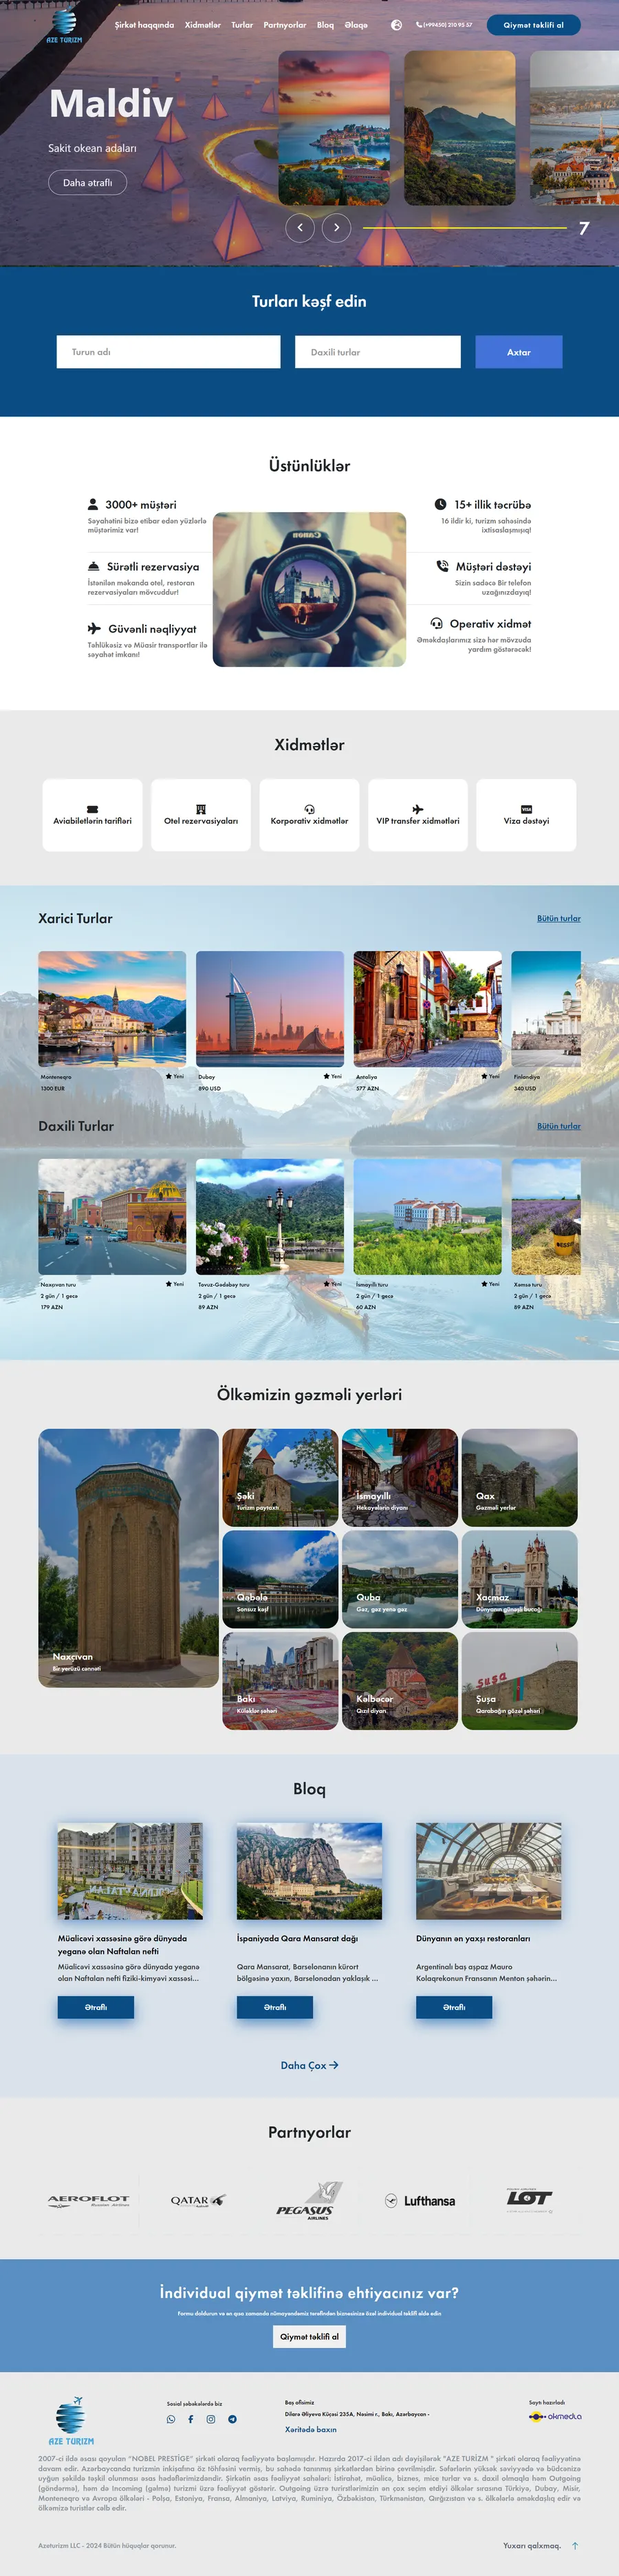
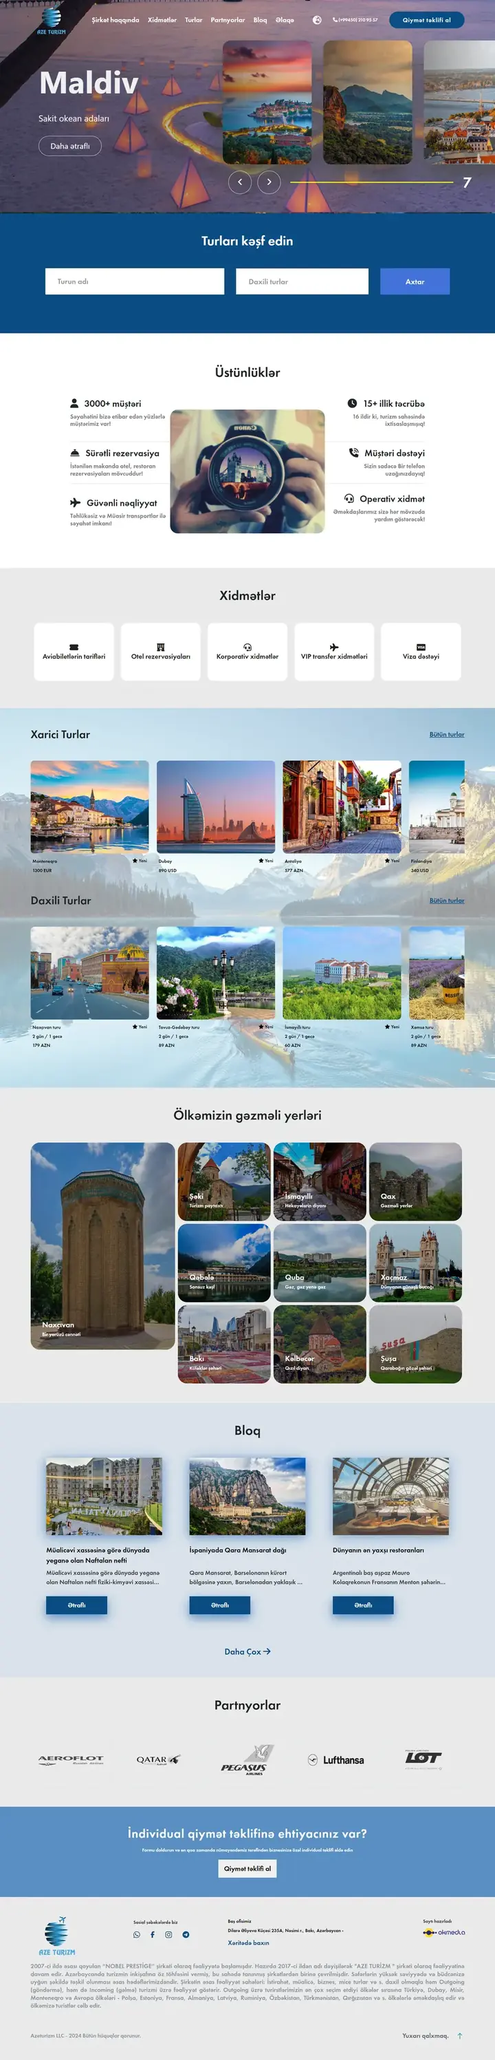
Fix frozen scrolling and cut rendering cost
- Lenis fought native scroll-behavior: smooth, so wheel scrolling crawled
  and the page felt frozen; disable native smoothing while Lenis runs
- Starfield no longer writes a CSS variable on <html> every frame (full
  style recalc 60x/s); it renders only while the hero or About is on
  screen, uses fewer points, a lower pixel ratio and low-power GPU, and
  is skipped on phones and reduced-motion in favour of the static image
- Project cards: drop per-card filter and will-change layers, use a dim
  overlay instead, content-visibility for off-screen cards, async decode
- Screenshots downscaled to 720px wide and capped at 3600px (2.4 MB -> 1.4 MB)
- No blur filters in reveal animations; fonts loaded via preconnected link

diff --git a/src/fx/Starfield.jsx b/src/fx/Starfield.jsx
@@ -102,24 +102,29 @@ export default function Starfield({ logoSrc }) {
   useEffect(() => {
     const canvas = ref.current;
     const reduced = window.matchMedia("(prefers-reduced-motion: reduce)").matches;
-    const small = window.matchMedia("(max-width: 768px)").matches;
+    const coarse = window.matchMedia("(pointer: coarse), (max-width: 768px)").matches;
+    const weak = (navigator.hardwareConcurrency || 8) <= 4 || (navigator.deviceMemory || 8) <= 4;
+    if (reduced || coarse) {
+      document.documentElement.classList.add("no-webgl");
+      return;
+    }
 
     let renderer;
     try {
-      renderer = new THREE.WebGLRenderer({ canvas, antialias: false, alpha: true, powerPreference: "high-performance" });
+      renderer = new THREE.WebGLRenderer({ canvas, antialias: false, alpha: true, powerPreference: "low-power" });
     } catch {
       document.documentElement.classList.add("no-webgl");
       return;
     }
     document.documentElement.classList.add("has-webgl");
 
-    const dpr = Math.min(window.devicePixelRatio, 1.75);
+    const dpr = Math.min(window.devicePixelRatio, weak ? 1 : 1.25);
     renderer.setPixelRatio(dpr);
     const scene = new THREE.Scene();
     const camera = new THREE.PerspectiveCamera(60, 1, 0.1, 400);
     camera.position.z = 20;
 
-    const count = small ? 2400 : 6500;
+    const count = weak ? 1800 : 3200;
     const pos = new Float32Array(count * 3);
     const rand = new Float32Array(count);
     for (let i = 0; i < count; i++) {
@@ -135,6 +140,7 @@ export default function Starfield({ logoSrc }) {
     geo.setAttribute("aRand", new THREE.BufferAttribute(rand, 1));
     geo.setAttribute("aTarget", new THREE.BufferAttribute(new Float32Array(count * 3), 3));
 
+    let logoReady = false;
     const uniforms = {
       uTime: { value: 0 },
       uWarp: { value: 0 },
@@ -159,7 +165,7 @@ export default function Starfield({ logoSrc }) {
       if (!t) return;
       geo.attributes.aTarget.array.set(t);
       geo.attributes.aTarget.needsUpdate = true;
-      document.documentElement.classList.add("logo-ready");
+      logoReady = true;
     });
 
     // keep the formed logo glued to the About image's on-screen position
@@ -203,7 +209,7 @@ export default function Starfield({ logoSrc }) {
           start: "top top",
           end: "bottom top",
           onUpdate: (s) => {
-            gsap.to(uniforms.uWarp, { value: Math.sin(s.progress * Math.PI) ** 2, duration: 0.4, overwrite: true });
+            uniforms.uWarp.value = Math.sin(s.progress * Math.PI) ** 2;
             uniforms.uDim.value = 1 - s.progress * 0.55;
           },
         }),
@@ -216,6 +222,9 @@ export default function Starfield({ logoSrc }) {
             const up = gsap.utils.clamp(0, 1, (p - 0.12) / 0.3);
             const down = gsap.utils.clamp(0, 1, (p - 0.72) / 0.22);
             uniforms.uMorph.value = up * (1 - down);
+            placeLogo();
+            const img = document.querySelector(".about_img img");
+            if (img && logoReady) img.style.opacity = String(1 - Math.min(1, uniforms.uMorph.value * 1.4));
           },
         })
       );
@@ -223,26 +232,29 @@ export default function Starfield({ logoSrc }) {
 
     let raf = 0;
     let visible = true;
+    let onScreen = new Set();
     const clock = new THREE.Clock();
+    const start = () => { if (!raf) raf = requestAnimationFrame(tick); };
     const tick = () => {
+      raf = 0;
+      if (!visible || onScreen.size === 0) return;
       raf = requestAnimationFrame(tick);
-      if (!visible) return;
       uniforms.uTime.value = reduced ? 0 : clock.getElapsedTime();
       uniforms.uMouse.value.lerp(mouse, 0.05);
-      if (uniforms.uMorph.value > 0.001) placeLogo();
-      document.documentElement.style.setProperty("--logo-fade", String(1 - Math.min(1, uniforms.uMorph.value * 1.4)));
       renderer.render(scene, camera);
     };
-    if (reduced) {
-      renderer.render(scene, camera);
-    } else {
-      tick();
-    }
-    const onVis = () => { visible = !document.hidden; };
+    const io = new IntersectionObserver((entries) => {
+      entries.forEach((e) => (e.isIntersecting ? onScreen.add(e.target) : onScreen.delete(e.target)));
+      start();
+    });
+    document.querySelectorAll(".banner, .about").forEach((el) => io.observe(el));
+    start();
+    const onVis = () => { visible = !document.hidden; start(); };
     document.addEventListener("visibilitychange", onVis);
 
     return () => {
       cancelAnimationFrame(raf);
+      io.disconnect();
       triggers.forEach((t) => t.kill());
       window.removeEventListener("resize", resize);
       window.removeEventListener("pointermove", onMove);

diff --git a/src/App.css b/src/App.css
@@ -1,4 +1,3 @@
-@import url("https://fonts.googleapis.com/css2?family=Poppins:wght@400;500;600;700&family=JetBrains+Mono:wght@400;500&display=swap");
 
 :root {
   --bg: #141414;
@@ -37,6 +36,11 @@ img { display: block; max-width: 100%; }
 ::selection { background: var(--text); color: var(--ink); }
 :focus-visible { outline: 2px solid var(--text); outline-offset: 4px; border-radius: 6px; }
 html { scrollbar-color: #4a4a4a var(--bg); scroll-behavior: smooth; }
+/* Lenis drives scrolling itself; native smooth scrolling fights it and stalls the page */
+html.lenis, html.lenis body { height: auto; }
+html.lenis { scroll-behavior: auto !important; }
+.lenis.lenis-smooth [data-lenis-prevent] { overscroll-behavior: contain; }
+.lenis.lenis-stopped { overflow: hidden; }
 @media (prefers-reduced-motion: reduce) { html { scroll-behavior: auto; } }
 
 section, footer { padding-bottom: 96px; }
@@ -221,22 +225,24 @@ h3 {
   min-height: 100%;
   object-fit: cover;
   object-position: top;
-  transition: transform 5s linear, filter 0.3s ease;
-  filter: brightness(78%);
+  transition: transform 5s linear;
 }
+.project_img { position: relative; }
+.project_img::after { content: ""; position: absolute; inset: 0; background: rgba(0, 0, 0, 0.22); transition: opacity 0.3s ease; pointer-events: none; }
+.project_card:hover .project_img::after, .project_link:focus-visible .project_img::after { opacity: 0.4; }
 .project_card:hover .project_img img,
 .project_link:focus-visible .project_img img {
   transform: translateY(calc(-100% + 300px));
-  filter: brightness(92%);
 }
 @media (prefers-reduced-motion: reduce) {
-  .project_img img { transition: filter 0.3s ease; }
+  .project_img img { transition: none; }
   .project_card:hover .project_img img,
   .project_link:focus-visible .project_img img { transform: none; }
 }
 .project_img--center img { object-position: center; }
 .project_img--contain { background: #fff; }
-.project_img--contain img { object-fit: contain; filter: none; }
+.project_img--contain img { object-fit: contain; }
+.project_img--contain::after { display: none; }
 .project_img--text {
   display: flex;
   align-items: center;
@@ -361,7 +367,7 @@ a.project_link:hover h4 { text-decoration: underline; text-underline-offset: 4px
 .starfield { position: fixed; inset: 0; width: 100vw; height: 100vh; z-index: 0; pointer-events: none; display: block; }
 main, footer { position: relative; z-index: 1; }
 .has-webgl .banner { background: none; }
-.logo-ready .about_img img { opacity: var(--logo-fade, 1); transition: opacity 0.2s linear; }
+
 
 /* hero */
 .hero_code {
@@ -414,7 +420,8 @@ main, footer { position: relative; z-index: 1; }
 
 /* project cards: depth + sheen */
 .project_inner { perspective: 1200px; }
-.project_link { transform-style: preserve-3d; will-change: transform; }
+.project_link { transform-style: preserve-3d; }
+.project_card { content-visibility: auto; contain-intrinsic-size: auto 360px; }
 .project_link::after {
   content: "";
   position: absolute;

diff --git a/src/fx/motion.js b/src/fx/motion.js
@@ -13,7 +13,7 @@ export function getLenis() {
 
 export function initSmoothScroll() {
   if (prefersReduced()) return () => {};
-  lenis = new Lenis({ lerp: 0.1, smoothWheel: true });
+  lenis = new Lenis({ lerp: 0.12, smoothWheel: true, wheelMultiplier: 1 });
   lenis.on("scroll", ScrollTrigger.update);
   const raf = (t) => lenis.raf(t * 1000);
   gsap.ticker.add(raf);
@@ -55,7 +55,6 @@ export function initReveals(root) {
       gsap.from(el, {
         y: 36,
         opacity: 0,
-        filter: "blur(6px)",
         duration: 0.9,
         ease: "expo.out",
         scrollTrigger: { trigger: el, start: "top 85%", once: true },
@@ -69,8 +68,7 @@ export function initReveals(root) {
         gsap.from(els, {
           y: 60,
           opacity: 0,
-          rotateX: -12,
-          transformOrigin: "50% 100%",
+
           duration: 1,
           ease: "expo.out",
           stagger: 0.08,

diff --git a/src/CodeToPixels.jsx b/src/CodeToPixels.jsx
@@ -101,7 +101,7 @@ export default function CodeToPixels() {
             const target = el.querySelector(`[data-preview="${scope}"] [data-build="${step}"]`);
             if (target && !target.dataset.played) {
               target.dataset.played = "1";
-              tl.fromTo(target, { opacity: 0, y: 18, scale: 0.92, filter: "blur(4px)" }, { opacity: 1, y: 0, scale: 1, filter: "blur(0px)", duration: 1.2, ease: "back.out(2)" }, "<0.2");
+              tl.fromTo(target, { opacity: 0, y: 18, scale: 0.92 }, { opacity: 1, y: 0, scale: 1, duration: 1.2, ease: "back.out(2)" }, "<0.2");
             }
           }
         });

diff --git a/src/Terminal.jsx b/src/Terminal.jsx
@@ -158,7 +158,7 @@ export default function Terminal() {
           <span>rovshan@portfolio: ~</span>
           <button type="button" className="terminal_close" onClick={close} aria-label="Close terminal">esc</button>
         </div>
-        <div className="terminal_screen" ref={screen} onClick={() => inputRef.current?.focus()}>
+        <div className="terminal_screen" data-lenis-prevent ref={screen} onClick={() => inputRef.current?.focus()}>
           {log.map((l, i) => (
             <p key={i} className={`t-${l.type}`}>
               {l.type === "in" && <span className="t-prompt">❯ </span>}

diff --git a/index.html b/index.html
@@ -11,6 +11,9 @@
     <meta property="og:image" content="https://rovsenrza.github.io/Portfolio/img/work/ruappstore.webp" />
     <meta property="og:url" content="https://rovsenrza.github.io/Portfolio/" />
     <meta name="theme-color" content="#141414" />
+    <link rel="preconnect" href="https://fonts.googleapis.com" />
+    <link rel="preconnect" href="https://fonts.gstatic.com" crossorigin />
+    <link rel="stylesheet" href="https://fonts.googleapis.com/css2?family=Poppins:wght@400;500;600;700&family=JetBrains+Mono:wght@400;500&display=swap" />
   </head>
   <body>
     <div id="root"></div>

diff --git a/src/Home.jsx b/src/Home.jsx
@@ -21,7 +21,7 @@ function ProjectCard({ project }) {
       <Tag className="project_link" {...(href ? { href, target: "_blank", rel: "noreferrer" } : {})}>
         <div className={`project_img${image ? "" : " project_img--text"}${center ? " project_img--center" : ""}${contain ? " project_img--contain" : ""}`}>
           {image ? (
-            <img src={image} alt={`${name} screens`} loading="lazy" />
+            <img src={image} alt={`${name} screens`} loading="lazy" decoding="async" />
           ) : (
             <p>{note}</p>
           )}
